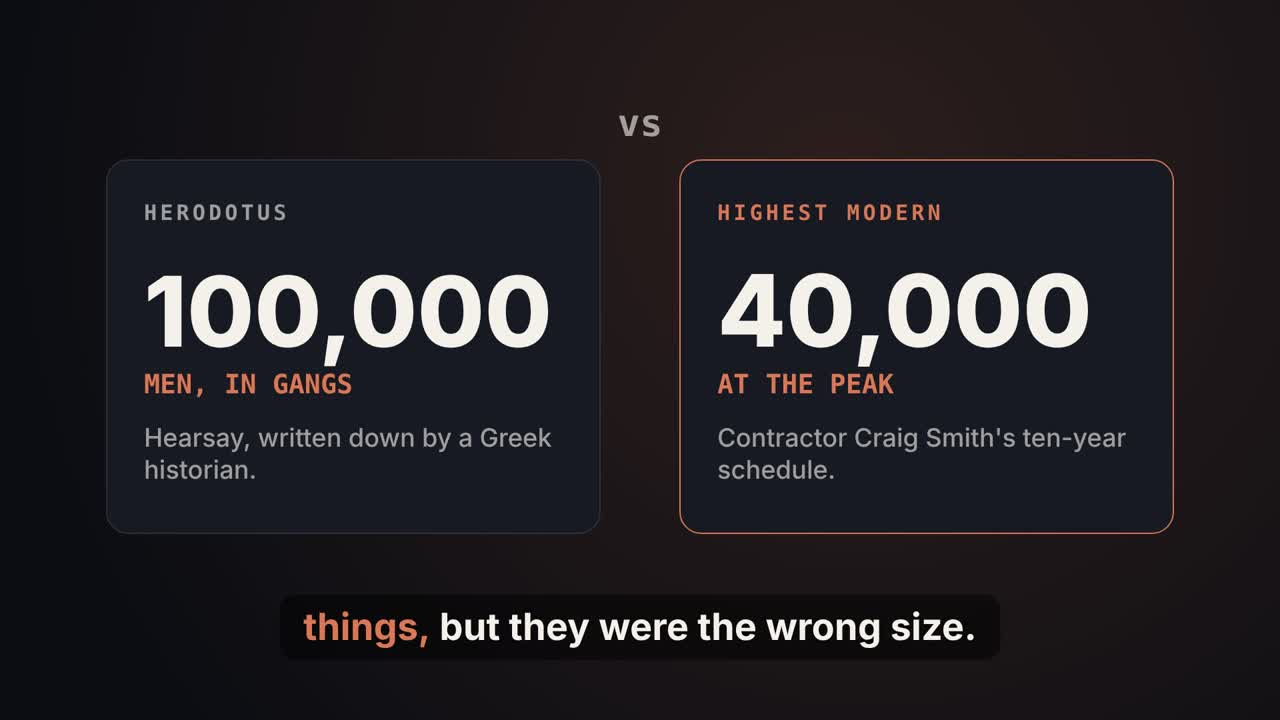
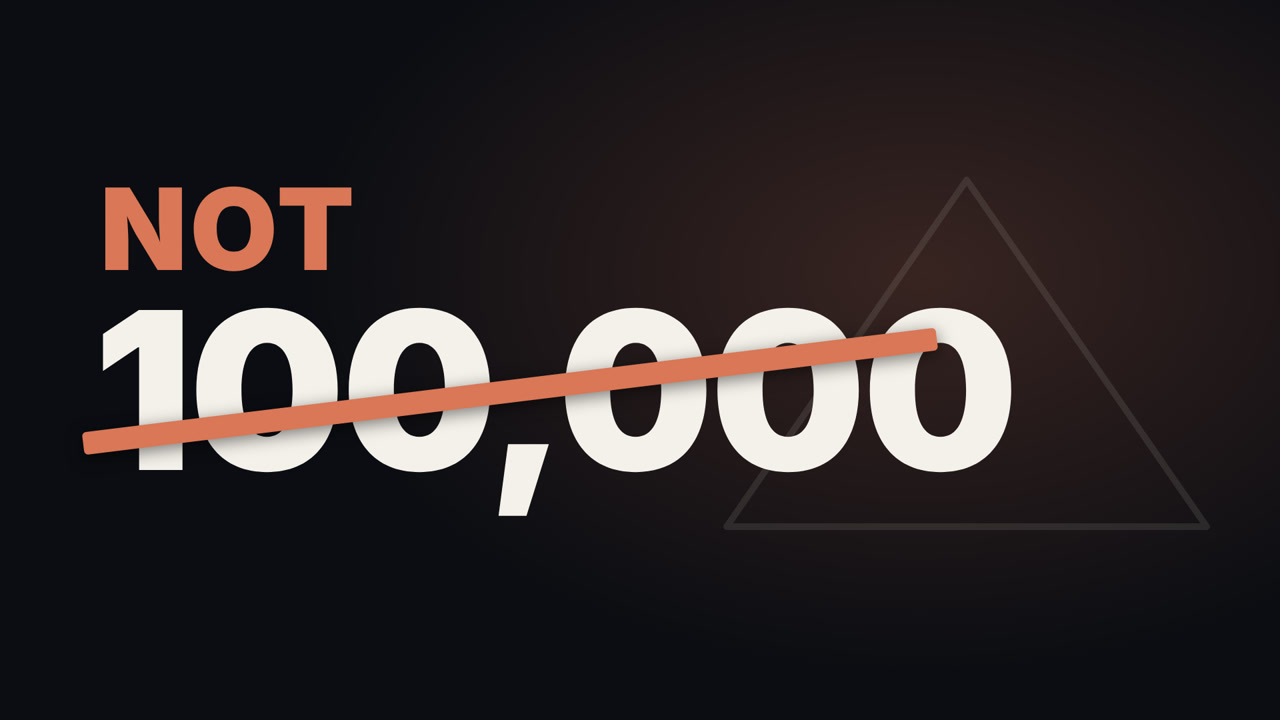
longform: great-pyramid-workforce cover thumbnail (NOT 100,000) and paste-ready description
Claude-Session: https://claude.ai/code/session_01829LPFMNJz7qZ6h3cDZL17

diff --git a/longform/films/great-pyramid-workforce/thumbnail.html b/longform/films/great-pyramid-workforce/thumbnail.html
@@ -1,0 +1,12 @@
+<!doctype html><html><head><meta charset="utf-8"><style>
+html,body{margin:0;width:1920px;height:1080px;overflow:hidden;background:#0b0d12;font-family:Inter,sans-serif}
+.glow{position:absolute;inset:0;background:radial-gradient(ellipse 70% 80% at 72% 38%,rgba(217,119,87,0.22),rgba(217,119,87,0) 70%)}
+/* Great Pyramid outline, top right: decorative only */
+svg{position:absolute;right:90px;top:250px}
+.not{position:absolute;left:150px;top:240px;font-size:170px;font-weight:900;color:#d97757;letter-spacing:4px}
+.num{position:absolute;left:140px;top:420px;font-size:330px;font-weight:900;color:#f4f1ea;letter-spacing:-6px;line-height:1}
+.strike{position:absolute;left:120px;top:570px;width:1290px;height:34px;background:#d97757;transform:rotate(-7deg);border-radius:6px;box-shadow:0 6px 24px rgba(0,0,0,.5)}
+</style></head><body><div class="glow"></div>
+<svg width="760" height="560" viewBox="0 0 760 560"><path d="M380 20 L740 540 L20 540 Z" fill="none" stroke="rgba(244,241,234,0.10)" stroke-width="10" stroke-linejoin="round"/></svg>
+<div class="not">NOT</div><div class="num">100,000</div><div class="strike"></div>
+</body></html>

diff --git a/longform/films/great-pyramid-workforce/package.md b/longform/films/great-pyramid-workforce/package.md
@@ -9,10 +9,9 @@
 
 ## Thumbnail
 Idea (4 words or fewer): **NOT 100,000**, with the number struck through, centred, away from the bottom-right duration label.
-File made now: thumbnail.jpg (1280x720) = the s150 still (Herodotus 100,000 vs highest modern 40,000), made with the lesson 29 commands.
-A true "NOT 100,000" cover needs a cover scene in video.json; adding one would change the film, so it waits for the owner.
+File: thumbnail.jpg (1280x720, 55 KB) = "NOT 100,000" cover, built from thumbnail.html in the film's colours and Inter font, rasterised by Chrome and scaled with ffmpeg; bottom-right kept clear for the duration label.
 
-## Description
+## Description (final text: description.txt, ready to paste)
 Herodotus was told that the Great Pyramid was built by gangs of 100,000 men, and the myth of a slave army has been repeated ever since. The builders' own town, their tombs, their gang graffiti and an inspector's logbook more than 4,500 years old tell a different story: thousands, tens of thousands at the peak, organised, fed and buried with honour.
 
 CHAPTERS
@@ -26,7 +25,7 @@ CHAPTERS
 
 SOURCES on upload: "Maps: Natural Earth (public domain); coordinates from Wikipedia; drawn for this film."
 
-## Description
+## Description (final text: description.txt, ready to paste)
 Herodotus was told that the Great Pyramid was built by gangs of 100,000 men, and the myth of a slave army has been repeated ever since. The builders' own town, their tombs, their gang graffiti and an inspector's logbook more than 4,500 years old tell a different story: thousands, tens of thousands at the peak, organised, fed and buried with honour.
 
 CHAPTERS
